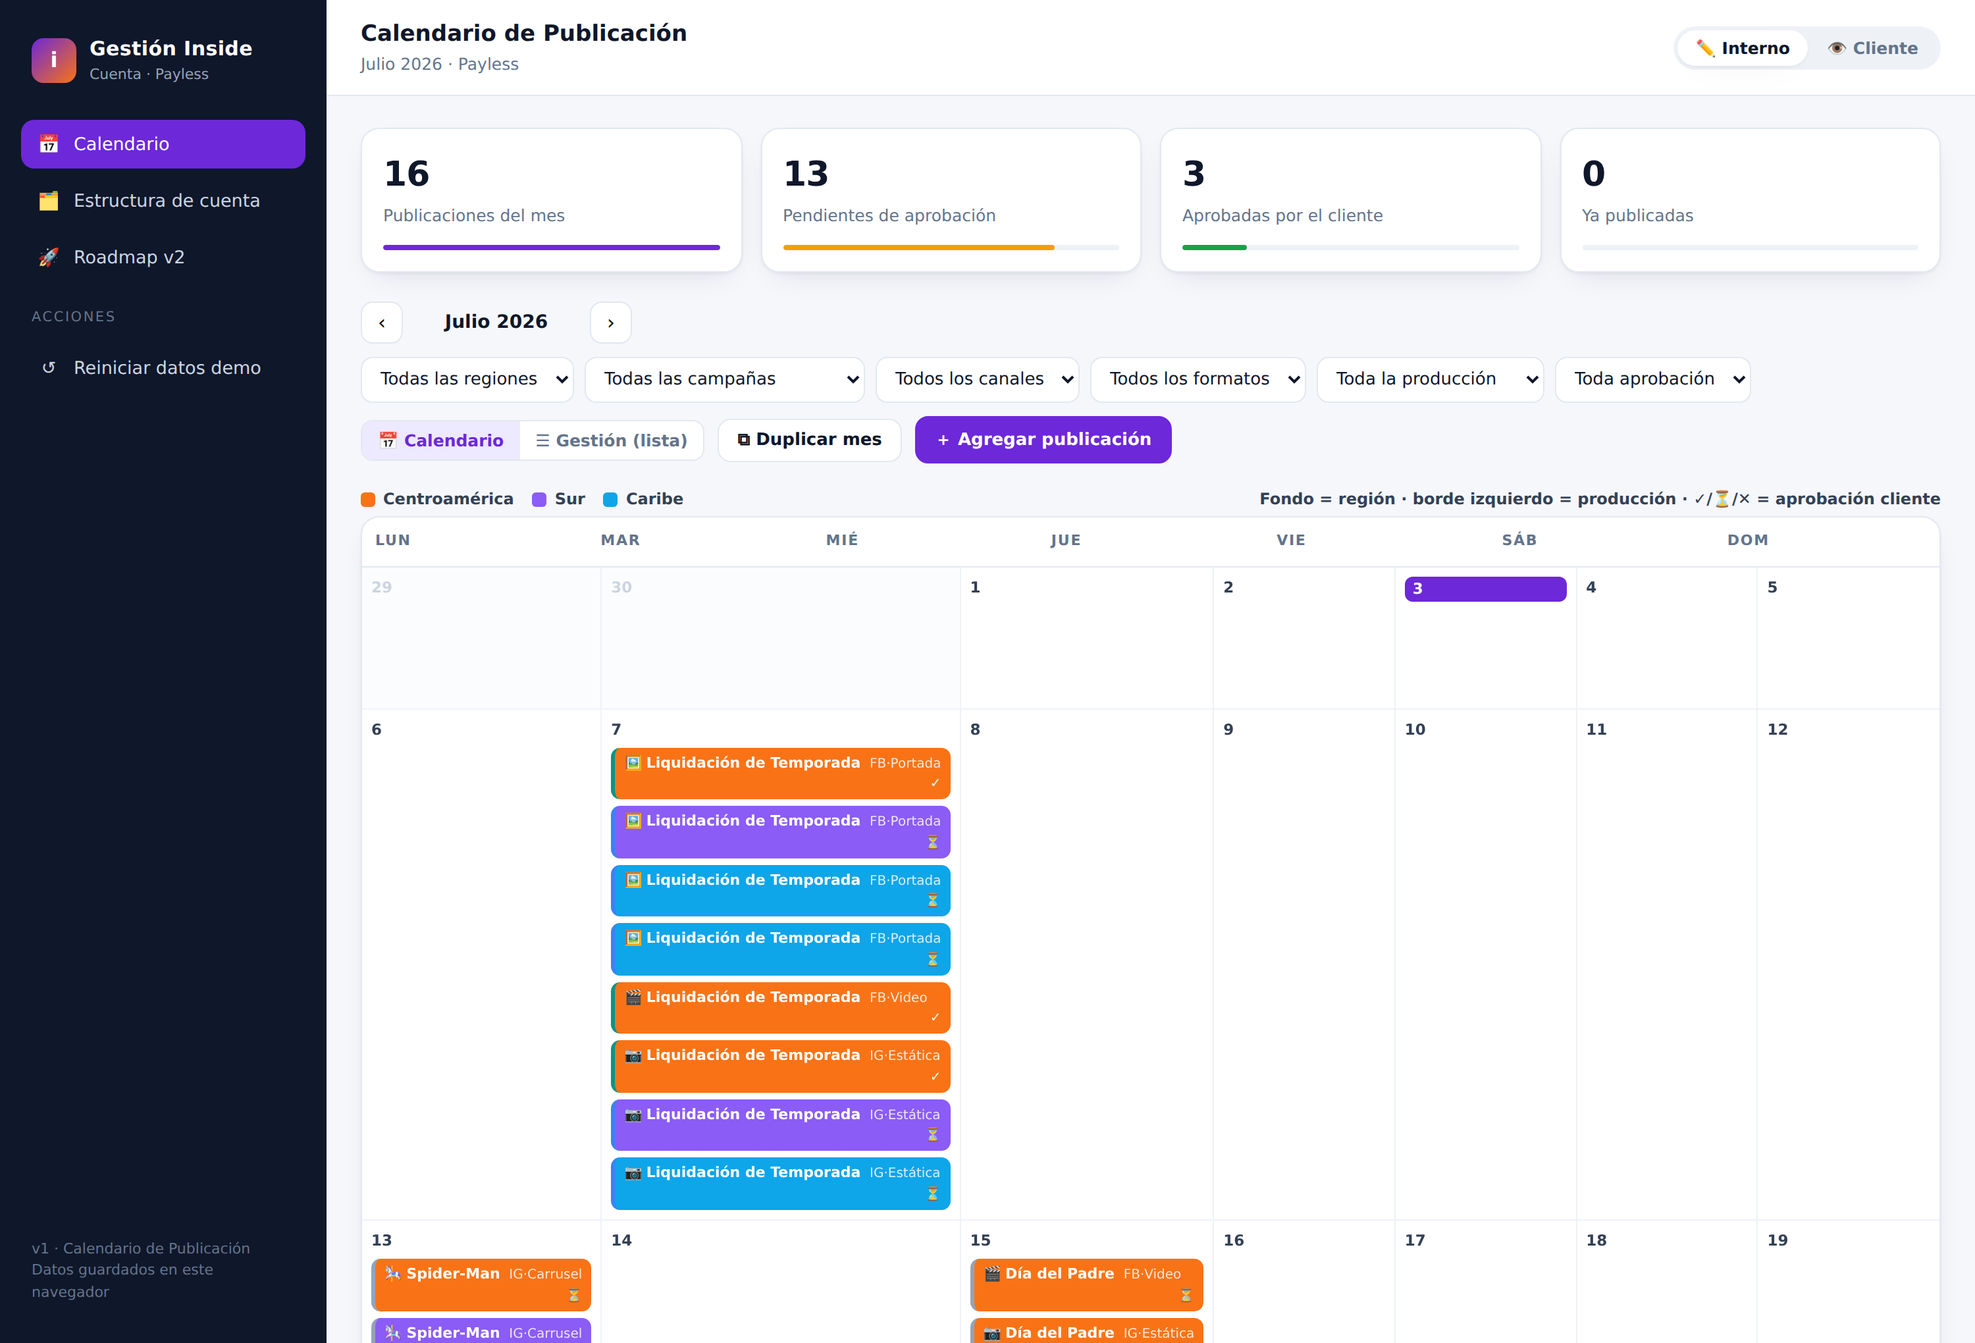
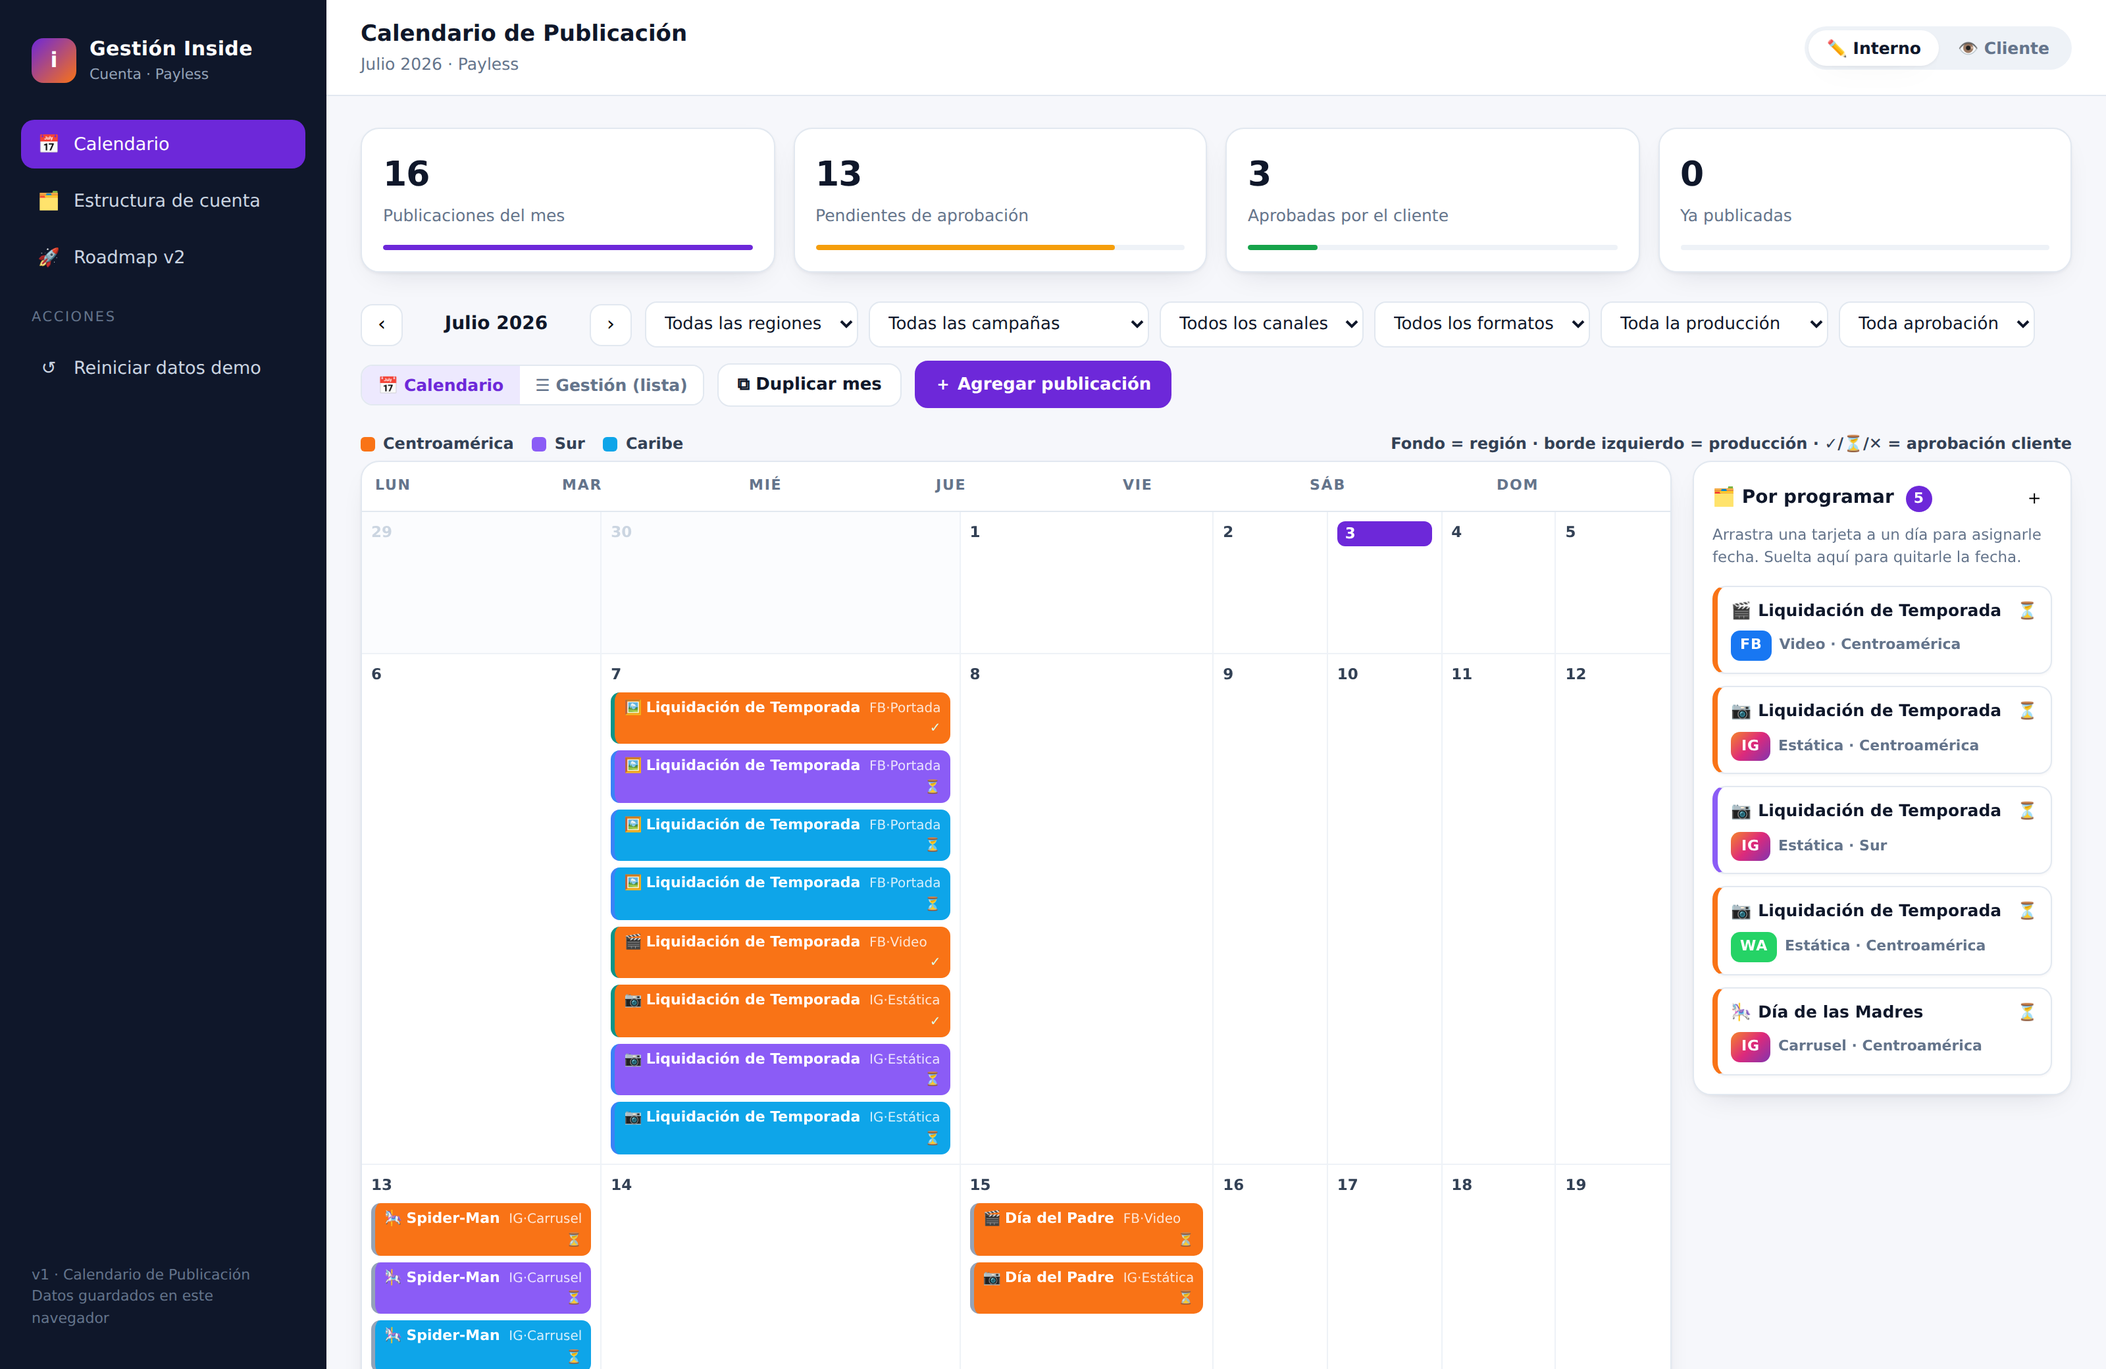
feat: backlog "Por programar" para piezas sin fecha
- Las publicaciones pueden existir sin fecha (matriz pendiente por publicar)
- Panel "Por programar" junto al calendario con las piezas sin fecha
- Arrastrar backlog -> día asigna fecha; arrastrar día -> backlog la quita
- Botón para agregar pieza directamente al backlog y checkbox "Por programar" en el modal
- La vista de lista incluye las piezas sin fecha marcadas
- Backlog visible también en modo Cliente (para aprobar aunque no tenga fecha), sin arrastre
- Se sembraron 5 piezas sin fecha del kick off (refuerzos de liquidación, Ecommerce/WhatsApp, 2º de Madres)

Claude-Session: https://claude.ai/code/session_01HuQRVwkntAf2vsht5kTvrb

diff --git a/js/app.js b/js/app.js
@@ -3,7 +3,7 @@
    Vanilla JS, sin build. Persiste en localStorage.
    ============================================================ */
 
-const KEY = "gestion_inside_v1_1";
+const KEY = "gestion_inside_v1_2";
 
 const UI = {
   view: "calendario",
@@ -40,18 +40,27 @@ function shiftMonth(ym, d) { let [y, m] = ym.split("-").map(Number); m += d; if 
 const esc = (s) => String(s == null ? "" : s).replace(/[&<>"']/g, (c) => ({ "&": "&amp;", "<": "&lt;", ">": "&gt;", '"': "&quot;", "'": "&#39;" }[c]));
 
 /* ---------- Filtrado ---------- */
-function piezasVisibles() {
+function applyFilters(list) {
   const f = UI.filtros;
-  let list = DB.piezas
-    .filter((p) => p.mes === UI.month)
+  let l = list
     .filter((p) => !f.region || p.regionId === f.region)
     .filter((p) => !f.campana || p.campanaId === f.campana)
     .filter((p) => !f.canal || p.canal === f.canal)
     .filter((p) => !f.formato || p.formato === f.formato)
     .filter((p) => !f.estado || p.estado === f.estado)
     .filter((p) => !f.aprobacion || p.aprobacion === f.aprobacion);
-  if (UI.mode === "cliente" && UI.soloMias) list = list.filter((p) => p.aprobador === UI.clienteId);
-  return list.sort((a, b) => a.fecha.localeCompare(b.fecha) || a.canal.localeCompare(b.canal));
+  if (UI.mode === "cliente" && UI.soloMias) l = l.filter((p) => p.aprobador === UI.clienteId);
+  return l;
+}
+// Piezas CON fecha, del mes visible
+function piezasVisibles() {
+  return applyFilters(DB.piezas.filter((p) => p.fecha && p.mes === UI.month))
+    .sort((a, b) => a.fecha.localeCompare(b.fecha) || a.canal.localeCompare(b.canal));
+}
+// Piezas SIN fecha (backlog "por programar") — no dependen del mes
+function backlogPiezas() {
+  return applyFilters(DB.piezas.filter((p) => !p.fecha))
+    .sort((a, b) => a.campanaId.localeCompare(b.campanaId) || a.canal.localeCompare(b.canal));
 }
 
 /* ============================================================
@@ -132,8 +141,36 @@ function viewCalendario() {
     ${DB.regiones.map((r) => `<span><i style="background:${r.color}"></i>${esc(r.nombre)}</span>`).join("")}
     <span class="legend-note">Fondo = región · borde izquierdo = producción · ✓/⏳/✕ = aprobación cliente</span>
   </div>
-  ${UI.calView === "grid" ? calGrid() : calLista(interno)}
+  ${UI.calView === "grid"
+      ? `<div class="cal-layout">${calGrid()}${backlogPanel(interno)}</div>`
+      : calLista(interno)}
   `;
+}
+
+/* ---------- Panel "Por programar" (backlog sin fecha) ---------- */
+function backlogPanel(interno) {
+  const list = backlogPiezas();
+  const cards = list.length
+    ? list.map((p) => bchipHTML(p, interno)).join("")
+    : `<div class="backlog-empty">Sin piezas por programar 🎉</div>`;
+  return `<aside class="backlog" ${interno ? 'data-drop=""' : ""}>
+    <div class="backlog-head">
+      <span>🗂 Por programar <span class="cnt">${list.length}</span></span>
+      ${interno ? `<button class="ico-btn" id="btnNewBacklog" title="Agregar pieza sin fecha">＋</button>` : ""}
+    </div>
+    <p class="backlog-hint">${interno ? "Arrastra una tarjeta a un día para asignarle fecha. Suelta aquí para quitarle la fecha." : "Piezas que aún no tienen fecha de publicación."}</p>
+    <div class="backlog-list">${cards}</div>
+  </aside>`;
+}
+
+function bchipHTML(p, interno) {
+  const r = region(p.regionId);
+  const drag = interno ? `draggable="true" data-pieza="${p.id}"` : "";
+  const c = campana(p.campanaId);
+  return `<div class="bchip${interno ? " draggable" : ""}" data-open="${p.id}" ${drag} style="border-left-color:${r ? r.color : "#64748B"}">
+    <div class="bc-top"><span class="cico">${FORMATO_ICONO[p.formato] || "•"}</span><b>${esc(c ? c.nombre : "")}</b>${aprobMark(p)}</div>
+    <div class="bc-meta"><span class="canal-badge c-${p.canal}">${esc(CANAL_ICONO[p.canal] || "")}</span> ${esc(p.formato)} · ${esc(r ? r.nombre : "")}</div>
+  </div>`;
 }
 
 function aprobMark(p) {
@@ -188,15 +225,17 @@ function paisesResumen(p) {
 }
 
 function calLista(interno) {
-  const piezas = piezasVisibles();
+  const sinFecha = backlogPiezas();
+  const conFecha = piezasVisibles();
+  const piezas = [...sinFecha, ...conFecha];
   if (!piezas.length) return emptyState(interno);
   const rows = piezas.map((p) => {
     const r = region(p.regionId), e = estado(p.estado), a = aprob(p.aprobacion);
     const acc = interno
       ? `<button class="ico-btn" data-open="${p.id}" title="Editar">✏</button><button class="ico-btn danger" data-del="${p.id}" title="Eliminar">🗑</button>`
       : `<button class="ico-btn" data-open="${p.id}" title="Ver / aprobar">👁</button>`;
-    return `<tr>
-      <td class="nowrap">${esc(fechaCorta(p.fecha))}</td>
+    return `<tr class="${p.fecha ? "" : "sin-fecha"}">
+      <td class="nowrap">${p.fecha ? esc(fechaCorta(p.fecha)) : '<span class="tag-sf">Sin fecha</span>'}</td>
       <td><span class="canal-badge c-${p.canal}">${esc(CANAL_ICONO[p.canal])}</span></td>
       <td><span class="fmt-cell">${FORMATO_ICONO[p.formato] || ""} ${esc(p.formato)}</span></td>
       <td><b>${esc(campana(p.campanaId) ? campana(p.campanaId).nombre : "")}</b></td>
@@ -269,7 +308,10 @@ function openModal(id, presetFecha) {
     </div>
     <div class="row2">
       <div><label class="fld">Formato</label><select id="mFormato" ${ro} style="width:100%">${DB.formatos.map((f) => `<option ${draft.formato === f ? "selected" : ""}>${FORMATO_ICONO[f] || ""} ${esc(f)}</option>`).join("")}</select></div>
-      <div><label class="fld">Fecha de publicación</label><input type="date" id="mFecha" value="${esc(draft.fecha)}" ${ro} style="width:100%"/></div>
+      <div><label class="fld">Fecha de publicación</label>
+        <input type="date" id="mFecha" value="${esc(draft.fecha)}" ${ro || (!draft.fecha ? "disabled" : "")} style="width:100%"/>
+        <label class="mini-chk"><input type="checkbox" id="mSinFecha" ${!draft.fecha ? "checked" : ""} ${ro}/> Por programar (sin fecha)</label>
+      </div>
     </div>
     <div class="row2">
       <div><label class="fld">Región</label><select id="mRegion" ${ro} style="width:100%">${DB.regiones.map((r) => `<option value="${r.id}" ${draft.regionId === r.id ? "selected" : ""}>${esc(r.nombre)}</option>`).join("")}</select></div>
@@ -317,10 +359,11 @@ function paisesChecks(draft) {
 }
 
 function nuevaPieza(fecha) {
-  const f = fecha || `${UI.month}-01`;
+  const sinFecha = fecha === "SIN_FECHA";
+  const f = sinFecha ? "" : (fecha || `${UI.month}-01`);
   const r = DB.regiones[0];
   return {
-    id: null, fecha: f, mes: f.slice(0, 7), marca: "Payless",
+    id: null, fecha: f, mes: f ? f.slice(0, 7) : "", marca: "Payless",
     campanaId: DB.campanas[0].id, regionId: r.id, canal: DB.canales[0], formato: DB.formatos[0],
     estado: "briefing", responsable: inside()[0].id, aprobador: clientes()[0].id,
     aprobacion: "pendiente", comentarioCliente: "", paises: r.paises.slice(), link: "", notas: "",
@@ -342,6 +385,13 @@ function wireModal(draft, interno, existe) {
   bindAprob();
 
   if (interno) {
+    const sf = document.getElementById("mSinFecha");
+    const fechaInput = document.getElementById("mFecha");
+    sf.onchange = () => {
+      fechaInput.disabled = sf.checked;
+      if (!sf.checked && !fechaInput.value) fechaInput.value = `${UI.month}-01`;
+    };
+
     const regionSel = document.getElementById("mRegion");
     regionSel.onchange = () => {
       draft.regionId = regionSel.value;
@@ -357,8 +407,8 @@ function wireModal(draft, interno, existe) {
       // el <option> muestra "🎬 Video"; normalizamos al nombre de formato limpio
       draft.formato = normalizaFormato(document.getElementById("mFormato").value);
       draft.regionId = document.getElementById("mRegion").value;
-      draft.fecha = document.getElementById("mFecha").value;
-      draft.mes = draft.fecha.slice(0, 7);
+      if (document.getElementById("mSinFecha").checked) { draft.fecha = ""; draft.mes = ""; }
+      else { draft.fecha = document.getElementById("mFecha").value; draft.mes = draft.fecha.slice(0, 7); }
       draft.estado = document.getElementById("mEstado").value;
       draft.responsable = document.getElementById("mResp").value;
       draft.aprobador = document.getElementById("mAprobador").value;
@@ -405,6 +455,7 @@ function wireContent() {
   const bind = (id, fn, ev = "onclick") => { const el = document.getElementById(id); if (el) el[ev] = fn; };
   bind("btnNew", () => openModal(null));
   bind("btnNew2", () => openModal(null));
+  bind("btnNewBacklog", () => openModal(null, "SIN_FECHA"));
   bind("mPrev", () => { UI.month = shiftMonth(UI.month, -1); render(); });
   bind("mNext", () => { UI.month = shiftMonth(UI.month, 1); render(); });
   bind("btnDup", duplicarMes);
@@ -419,36 +470,37 @@ function wireContent() {
   if (UI.mode === "interno" && UI.calView === "grid") wireDragDrop();
 }
 
-/* Arrastrar publicaciones entre días (estilo Trello) — solo modo Interno */
+/* Arrastrar publicaciones entre días y hacia/desde el backlog — solo modo Interno */
 function wireDragDrop() {
   let arrastrando = null;
 
-  document.querySelectorAll('.chip[draggable="true"]').forEach((chip) => {
-    chip.addEventListener("dragstart", (e) => {
-      arrastrando = chip.dataset.pieza;
+  document.querySelectorAll('.chip[draggable="true"], .bchip[draggable="true"]').forEach((card) => {
+    card.addEventListener("dragstart", (e) => {
+      arrastrando = card.dataset.pieza;
       e.dataTransfer.effectAllowed = "move";
       e.dataTransfer.setData("text/plain", arrastrando);
-      requestAnimationFrame(() => chip.classList.add("dragging"));
+      requestAnimationFrame(() => card.classList.add("dragging"));
     });
-    chip.addEventListener("dragend", () => {
+    card.addEventListener("dragend", () => {
       arrastrando = null;
-      document.querySelectorAll(".chip.dragging").forEach((c) => c.classList.remove("dragging"));
-      document.querySelectorAll(".cal-cell.drop-hover").forEach((c) => c.classList.remove("drop-hover"));
+      document.querySelectorAll(".dragging").forEach((c) => c.classList.remove("dragging"));
+      document.querySelectorAll(".drop-hover").forEach((c) => c.classList.remove("drop-hover"));
     });
   });
 
-  document.querySelectorAll(".cal-cell[data-drop]").forEach((cell) => {
-    cell.addEventListener("dragover", (e) => { e.preventDefault(); e.dataTransfer.dropEffect = "move"; cell.classList.add("drop-hover"); });
-    cell.addEventListener("dragleave", () => cell.classList.remove("drop-hover"));
-    cell.addEventListener("drop", (e) => {
+  // Zonas de destino: días del calendario (fecha) y el backlog (data-drop="" → quitar fecha)
+  document.querySelectorAll("[data-drop]").forEach((zone) => {
+    zone.addEventListener("dragover", (e) => { e.preventDefault(); e.dataTransfer.dropEffect = "move"; zone.classList.add("drop-hover"); });
+    zone.addEventListener("dragleave", (e) => { if (!zone.contains(e.relatedTarget)) zone.classList.remove("drop-hover"); });
+    zone.addEventListener("drop", (e) => {
       e.preventDefault();
-      cell.classList.remove("drop-hover");
+      zone.classList.remove("drop-hover");
       const id = e.dataTransfer.getData("text/plain") || arrastrando;
-      const nuevaFecha = cell.dataset.drop;
+      const nuevaFecha = zone.dataset.drop; // "" para el backlog
       const p = DB.piezas.find((x) => x.id === id);
-      if (!p || !nuevaFecha || p.fecha === nuevaFecha) return;
+      if (!p || p.fecha === nuevaFecha) return;
       p.fecha = nuevaFecha;
-      p.mes = nuevaFecha.slice(0, 7);
+      p.mes = nuevaFecha ? nuevaFecha.slice(0, 7) : "";
       save();
       render();
     });

diff --git a/css/styles.css b/css/styles.css
@@ -254,6 +254,34 @@ label.fld { display: block; font-size: 12px; font-weight: 600; color: var(--ink-
 .card .tag.cli { color: #2563EB; background: #EFF6FF; }
 .section-title.mt { margin-top: 26px; }
 
+/* ---- v1.2 backlog "por programar" ---- */
+.cal-layout { display: grid; grid-template-columns: 1fr 288px; gap: 16px; align-items: start; }
+.backlog { background: var(--panel); border: 1px solid var(--line); border-radius: var(--radius); box-shadow: var(--shadow); padding: 14px; position: sticky; top: 84px; max-height: calc(100vh - 110px); overflow: auto; }
+.backlog.drop-hover { box-shadow: inset 0 0 0 2px var(--brand); background: var(--brand-soft); }
+.backlog-head { display: flex; align-items: center; justify-content: space-between; font-weight: 700; font-size: 14px; }
+.backlog-head .cnt { display: inline-grid; place-items: center; min-width: 20px; height: 20px; padding: 0 6px; border-radius: 999px; background: var(--brand); color: #fff; font-size: 11px; margin-left: 4px; }
+.backlog-hint { color: var(--muted); font-size: 11.5px; margin: 6px 0 12px; }
+.backlog-list { display: flex; flex-direction: column; gap: 9px; }
+.backlog-empty { color: var(--muted); font-size: 12.5px; text-align: center; padding: 24px 8px; }
+.bchip { background: #fff; border: 1px solid var(--line); border-left: 4px solid #64748B; border-radius: 10px; padding: 9px 10px; box-shadow: 0 1px 2px rgba(15,23,42,.04); }
+.bchip.draggable { cursor: grab; }
+.bchip.draggable:active { cursor: grabbing; }
+.bchip.dragging { opacity: .4; }
+.bchip .bc-top { display: flex; align-items: center; gap: 5px; font-size: 12.5px; font-weight: 700; color: var(--ink); }
+.bchip .bc-top .amark { margin-left: auto; }
+.bchip .bc-top .amark.ok { color: var(--ok); }
+.bchip .bc-top .amark.no { color: var(--danger); }
+.bchip .bc-top .amark.wait { color: var(--warn); }
+.bchip .bc-meta { display: flex; align-items: center; gap: 6px; margin-top: 6px; font-size: 11px; color: var(--muted); font-weight: 600; }
+
+.mini-chk { display: flex; align-items: center; gap: 6px; margin-top: 7px; font-size: 12px; font-weight: 600; color: var(--ink-soft); }
+.mini-chk input { accent-color: var(--brand); }
+
+tr.sin-fecha td { background: #FFFDF5; }
+.tag-sf { display: inline-block; font-size: 10.5px; font-weight: 800; letter-spacing: .03em; color: #B45309; background: #FEF3C7; padding: 2px 8px; border-radius: 999px; text-transform: uppercase; }
+
+@media (max-width: 1100px) { .cal-layout { grid-template-columns: 1fr; } .backlog { position: static; max-height: none; } }
+
 .hidden { display: none !important; }
 .pill-note { background: #FFF7ED; border: 1px solid #FED7AA; color: #9A3412; padding: 10px 14px; border-radius: 10px; font-size: 12.5px; margin-bottom: 18px; }
 .cli-note { background: var(--brand-soft); border-color: #DDD6FE; color: #5B21B6; }

diff --git a/js/data.js b/js/data.js
@@ -108,15 +108,27 @@ const SEED = {
     // --- 28 jul · Back to School Caribe ---
     pz("2026-07-28", "bts", "car", "Facebook", "Portada", "briefing", "vic", "daini", "pendiente", "all",
       "Vuelta a clases: temporada más alta de ventas en Caribe. Comienza el 28 jul. (Las alianzas con bancos en RD arrancan en agosto.)"),
+
+    // --- POR PROGRAMAR (sin fecha) · la "matriz pendiente por publicar" ---
+    pz("", "liq", "cam", "Instagram", "Estática", "diseno", "ale", "nico", "pendiente", "all",
+      "Contenido adicional de refuerzo de liquidación (van 2-3 en el mes). Propuesta de Inside. Falta asignar día.", "b1"),
+    pz("", "liq", "cam", "Facebook", "Video", "briefing", "alej", "nico", "pendiente", "all",
+      "Segundo refuerzo de liquidación, en video. Por programar según el calendario.", "b2"),
+    pz("", "liq", "sur", "Instagram", "Estática", "briefing", "vic", "cristina", "pendiente", "all",
+      "Refuerzo de liquidación para Ecuador, Colombia y Panamá. Por programar.", "b3"),
+    pz("", "madres", "cam", "Instagram", "Carrusel", "briefing", "ale", "nico", "pendiente", ["Costa Rica"],
+      "Segundo contenido semanal de Día de las Madres (Costa Rica). Fecha según editables que envíe Nicolás.", "b4"),
+    pz("", "liq", "cam", "WhatsApp", "Estática", "briefing", "vic", "carla", "pendiente", "all",
+      "Ecommerce y WhatsApp en standby: Carla Poveda organiza lo pendiente antes de programar la Pauta.", "b5"),
   ],
 };
 
-/* Helper para construir una publicación */
-function pz(fecha, campanaId, regionId, canal, formato, estado, responsable, aprobador, aprobacion, paises, notas) {
+/* Helper para construir una publicación (fecha "" = sin fecha / por programar) */
+function pz(fecha, campanaId, regionId, canal, formato, estado, responsable, aprobador, aprobacion, paises, notas, salt) {
   const reg = REG(regionId);
   const target = paises === "all" ? (reg ? reg.paises.slice() : []) : paises;
   return {
-    id: "pz_" + fecha.replace(/-/g, "") + "_" + regionId + "_" + canal.slice(0, 2) + "_" + Math.abs(hashStr(campanaId + formato + fecha + canal + aprobador)),
+    id: "pz_" + (fecha ? fecha.replace(/-/g, "") : "sf" + (salt || "")) + "_" + regionId + "_" + canal.slice(0, 2) + "_" + Math.abs(hashStr(campanaId + formato + fecha + canal + aprobador + (salt || ""))),
     fecha,
     mes: fecha.slice(0, 7),
     marca: "Payless",
